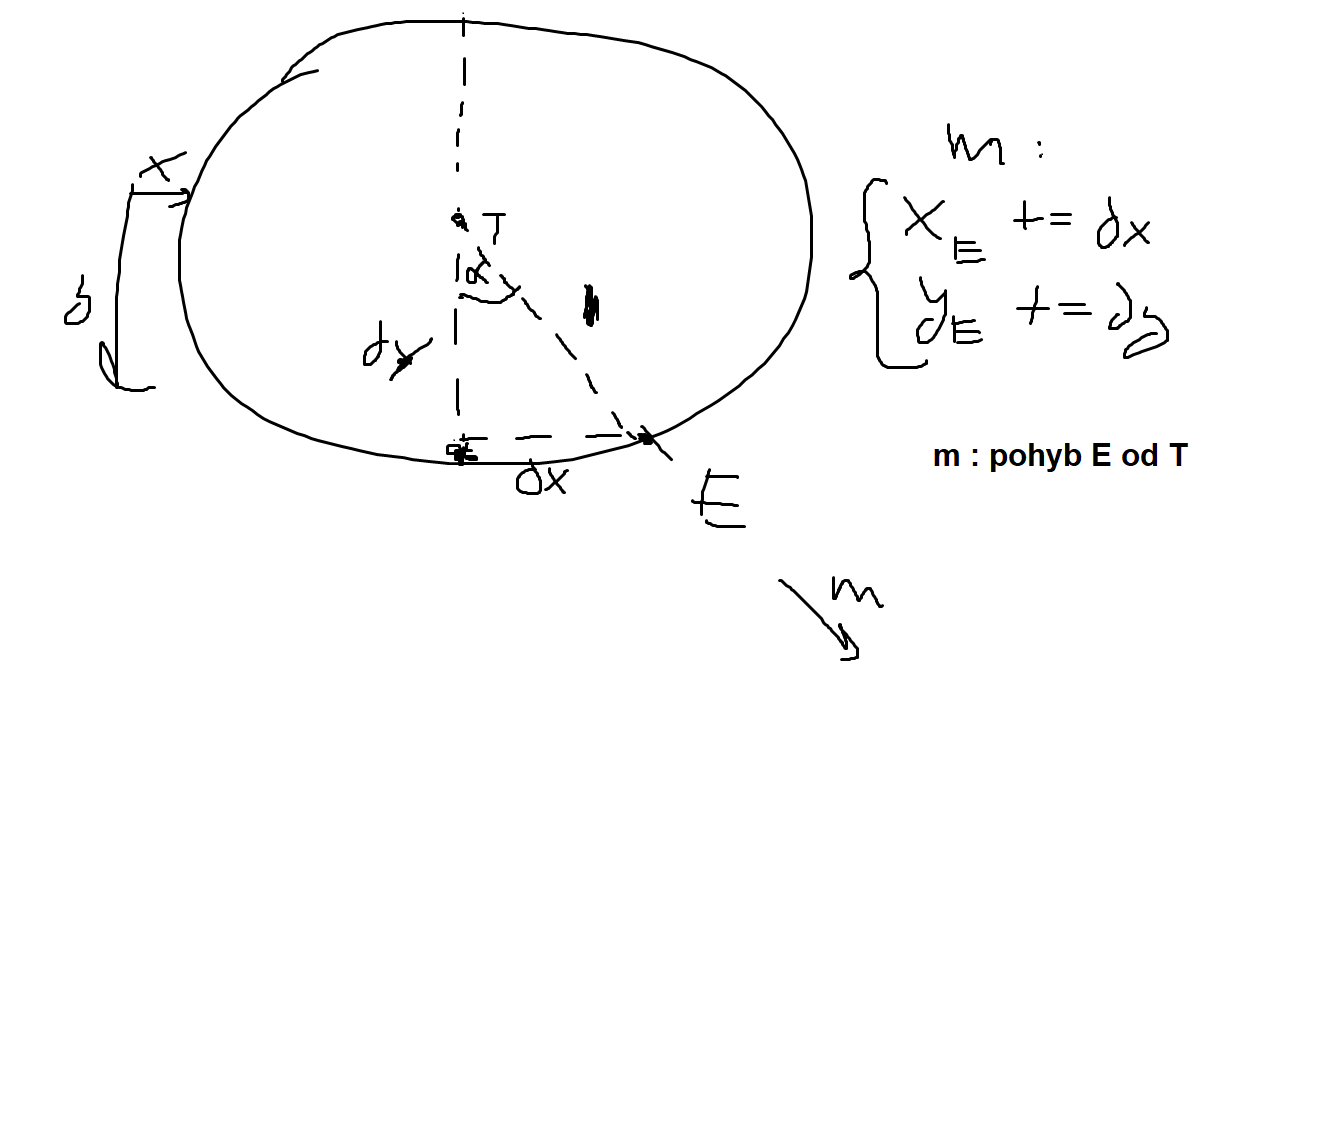
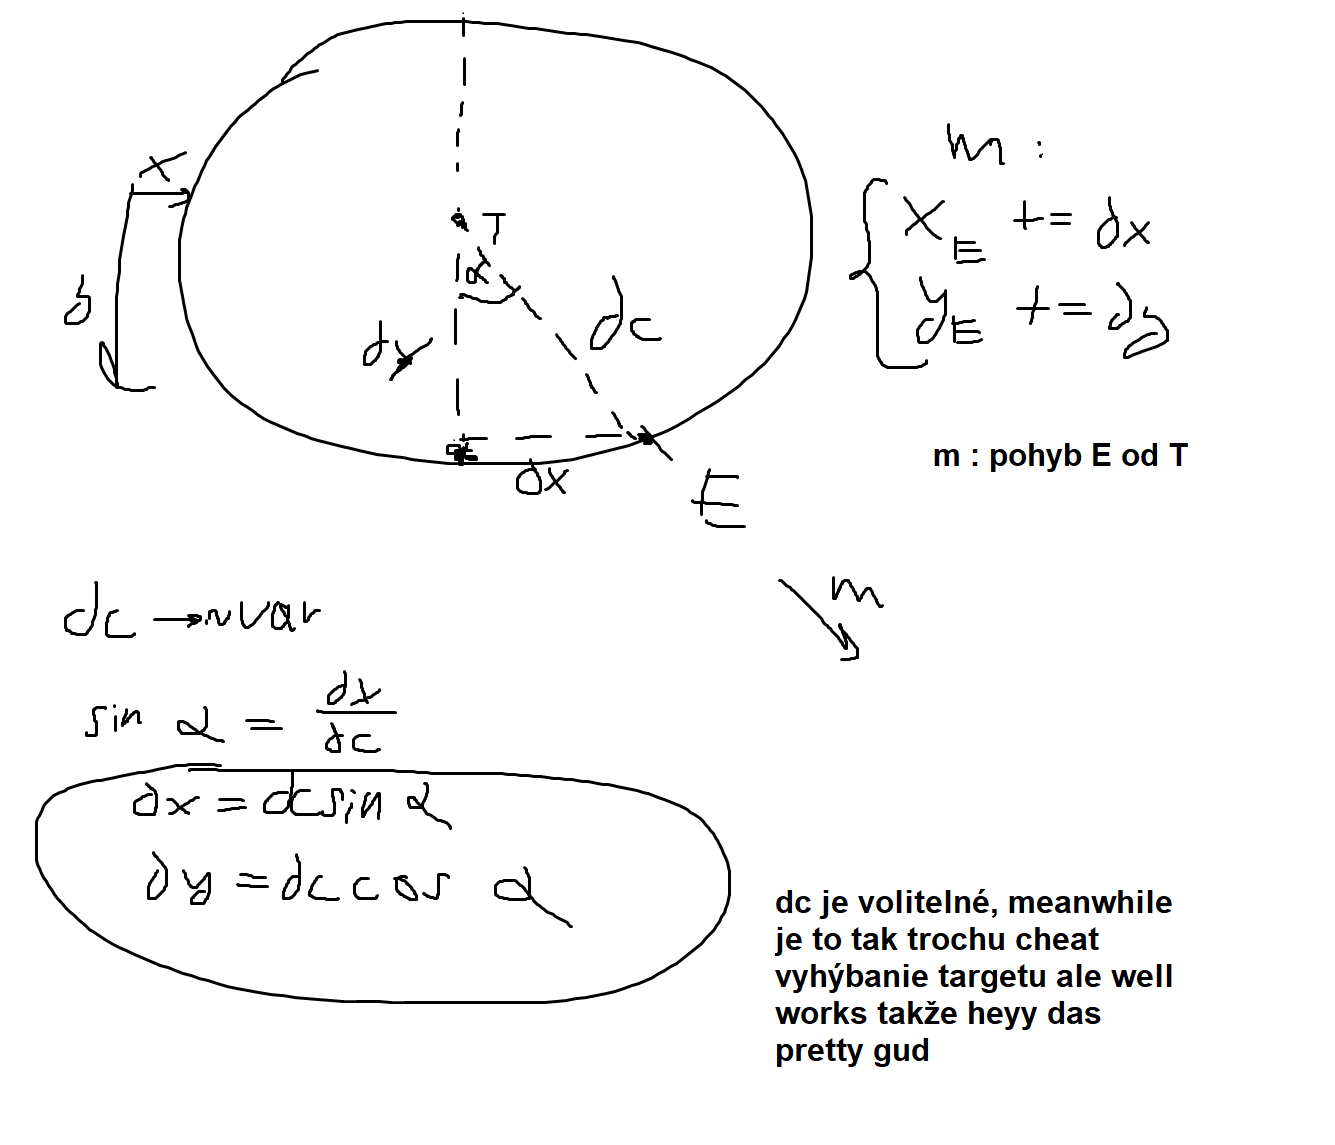
well tak trochu pohyb

diff --git a/dev/PixiJSRes/pixibase/js/super/Collider.js b/dev/PixiJSRes/pixibase/js/super/Collider.js
@@ -8,11 +8,8 @@ class Collider {
 
   // t = target entity
   detect(dt, t) {}
-
-  setupDebug() {
-
-  }
-  // this should display
+  
+  // this setups the debug graphics, call super.debug() on override to save 3 lines of code lmao
   debug() {
     this.debugGraphics = new PIXI.Graphics;
     this.debugGraphics.lineStyle(2, 0xFF0000, 1);

diff --git a/dev/PixiJSRes/pixibase/main.js b/dev/PixiJSRes/pixibase/main.js
@@ -76,8 +76,8 @@ function setup() {
   a.collider.debug();
   a.colliding = (dt, t, dx, dy, ang) => {
     console.log('COLLISION : ' + a.id + ' -> ' + t.id + ' : ' + ang*180/Math.PI);
-    a.x += dx*dt*0.1;
-    a.y += dy*dt*0.1;
+    a.x += 5*Math.sin(ang);
+    a.y += 5*Math.cos(ang);
   };
   world.addChild(a);
 
